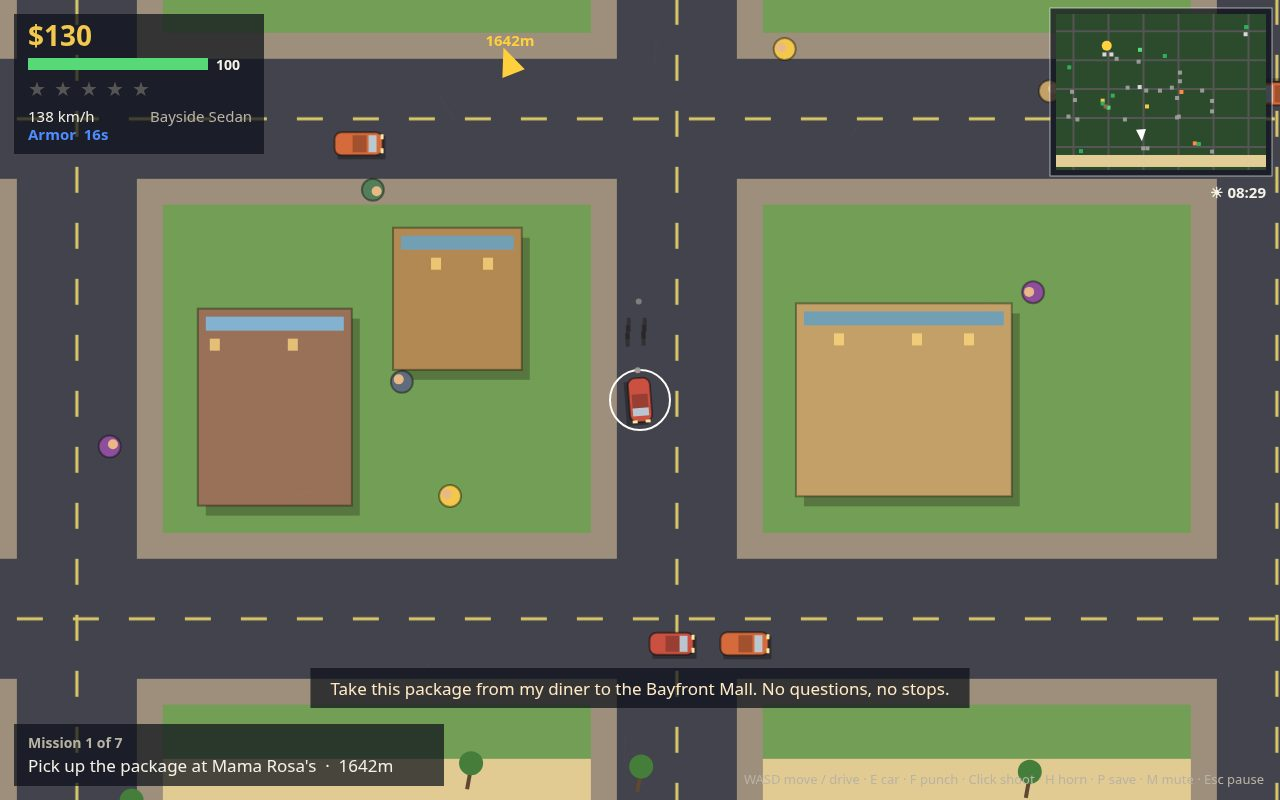
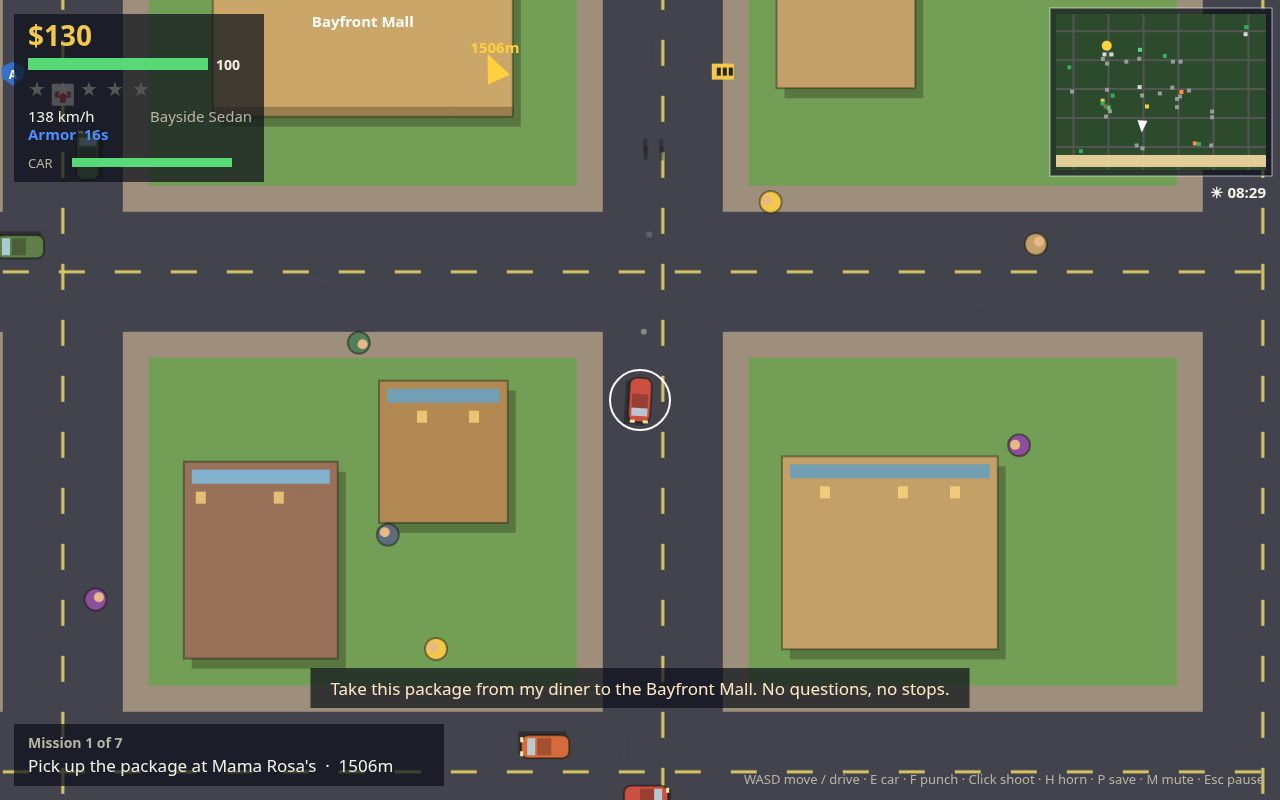
Neon Bay 200x: iterasi 111-113 — bar HP mobil di HUD + asap kerusakan

diff --git a/game/src/render.js b/game/src/render.js
@@ -669,9 +669,9 @@ export function createRenderer(canvas) {
   function drawHud(state, ui) {
     const p = state.player;
     // Cash, health and wanted stars, top-left. The panel is tall enough for
-    // the weapon and armor lines below the stars.
+    // the weapon, armor and car-health lines below the stars.
     ctx.fillStyle = PALETTE.hudPanel;
-    ctx.fillRect(14, 14, 250, 140);
+    ctx.fillRect(14, 14, 250, 168);
     text(`$${state.cash.toLocaleString('en-US')}`, 28, 46, 28, PALETTE.gold, 'left', true);
     ctx.fillStyle = '#333';
     ctx.fillRect(28, 58, 180, 12);
@@ -700,6 +700,12 @@ export function createRenderer(canvas) {
         const kmh = Math.round(Math.abs(myCar.speed) * 0.32);
         text(`${kmh} km/h`, 28, 122, 15, PALETTE.hudText, 'left');
         text(myCar.kind === 'patrol' ? 'NBPD Interceptor' : (CAR_KINDS[myCar.kind] ? CAR_KINDS[myCar.kind].label : myCar.kind), 150, 122, 15, PALETTE.hudMuted, 'left');
+        // Car health bar, so the player knows when to find a repair wrench.
+        text('CAR', 28, 168, 13, PALETTE.hudMuted, 'left');
+        ctx.fillStyle = 'rgba(0,0,0,0.5)';
+        ctx.fillRect(72, 158, 160, 9);
+        ctx.fillStyle = myCar.health > 50 ? '#57d977' : myCar.health > 25 ? '#f2c94c' : '#ff4d4d';
+        ctx.fillRect(72, 158, 160 * Math.max(0, myCar.health) / 100, 9);
       }
     }
     drawMinimap(state);

diff --git a/game/src/world.js b/game/src/world.js
@@ -635,6 +635,12 @@ export function createGame(rng) {
       const by = car.y - Math.sin(car.angle) * (spec.length / 2);
       state.particles.push({ x: bx, y: by, vx: -Math.cos(car.angle) * 40, vy: -Math.sin(car.angle) * 40, life: 0.5, maxLife: 0.5, color: '#9a9a9a', size: 3 });
     }
+    // A damaged car (health under 40) smokes from the hood.
+    if (car.health < 40 && !car.smoked && rng.chance(0.25)) {
+      const fx = car.x + Math.cos(car.angle) * (spec.length / 2);
+      const fy = car.y + Math.sin(car.angle) * (spec.length / 2);
+      state.particles.push({ x: fx, y: fy, vx: 0, vy: -30, life: 0.7, maxLife: 0.7, color: '#666666', size: 4 });
+    }
     car.speed -= car.speed * 0.12 * dt;
     car.speed = Math.max(-spec.topSpeed * 0.4, Math.min(spec.topSpeed, car.speed));
     const steer = (input.left ? -1 : 0) + (input.right ? 1 : 0);

diff --git a/ITERATIONS-200X.md b/ITERATIONS-200X.md
@@ -133,3 +133,6 @@ TERUS hingga tercapai. Setiap iterasi = perubahan nyata + uji.**
 | 108 | Tuning: wanted coolDelay 15→13 dtk (panas lebih cepat dingin) | headless test | KEEP |
 | 109 | Tuning: player walk 245→250, run 365→375 (jalan kaki lebih lincah) | headless test | KEEP |
 | 110 | Tuning batch terverifikasi: semua misi tetap selesai, soak stabil | headless test ALL PASS | KEEP |
+| 111 | HUD: bar kesehatan mobil (CAR) di bawah speedometer saat mengemudi | headless test + screenshot 2-drive | KEEP |
+| 112 | Panel HUD dipertinggi 140→168 agar bar CAR muat | screenshot 2-drive | KEEP |
+| 113 | Asap dari kap mobil saat HP mobil < 40 (tanda butuh repair) | headless test | KEEP |
